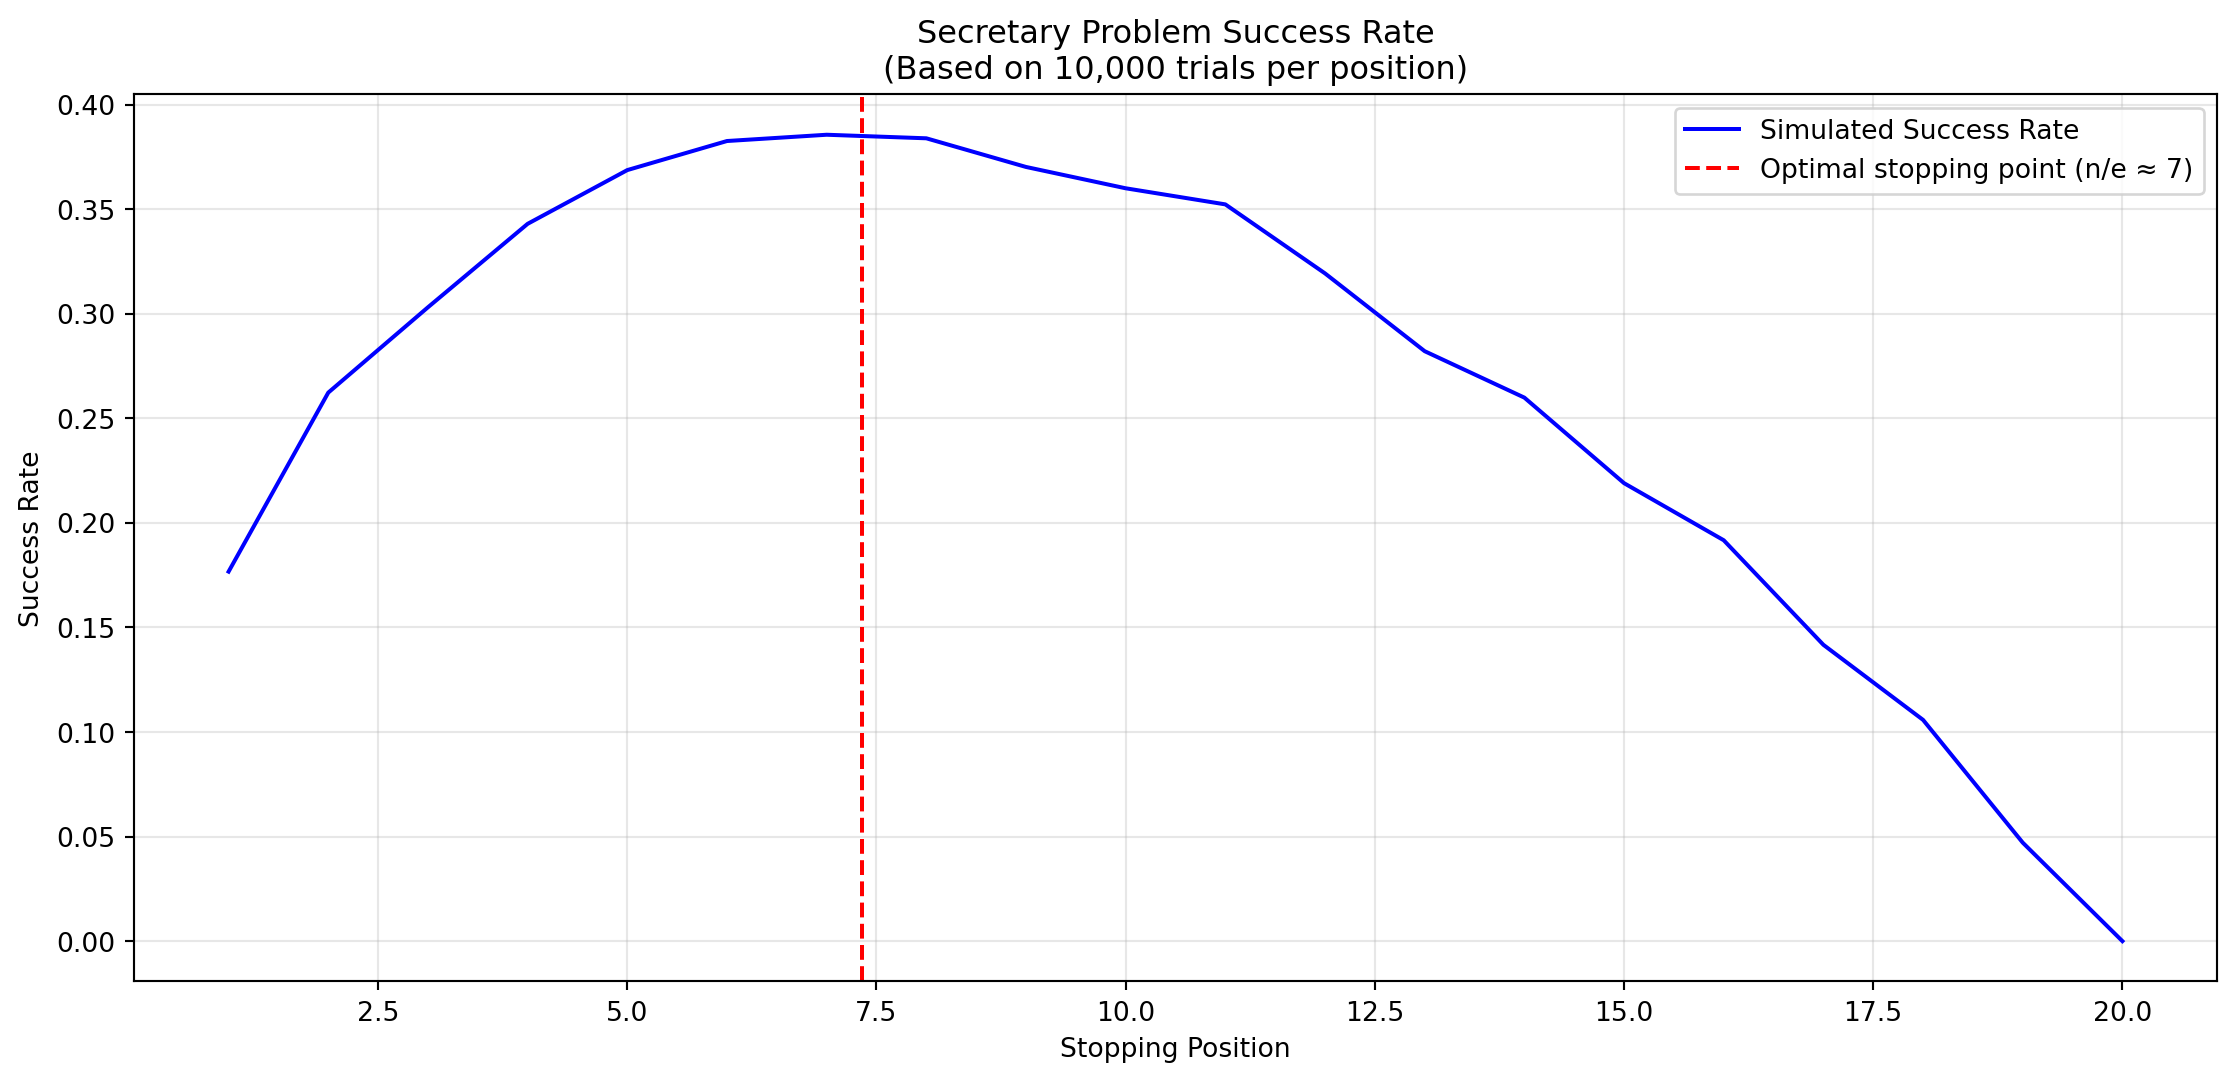
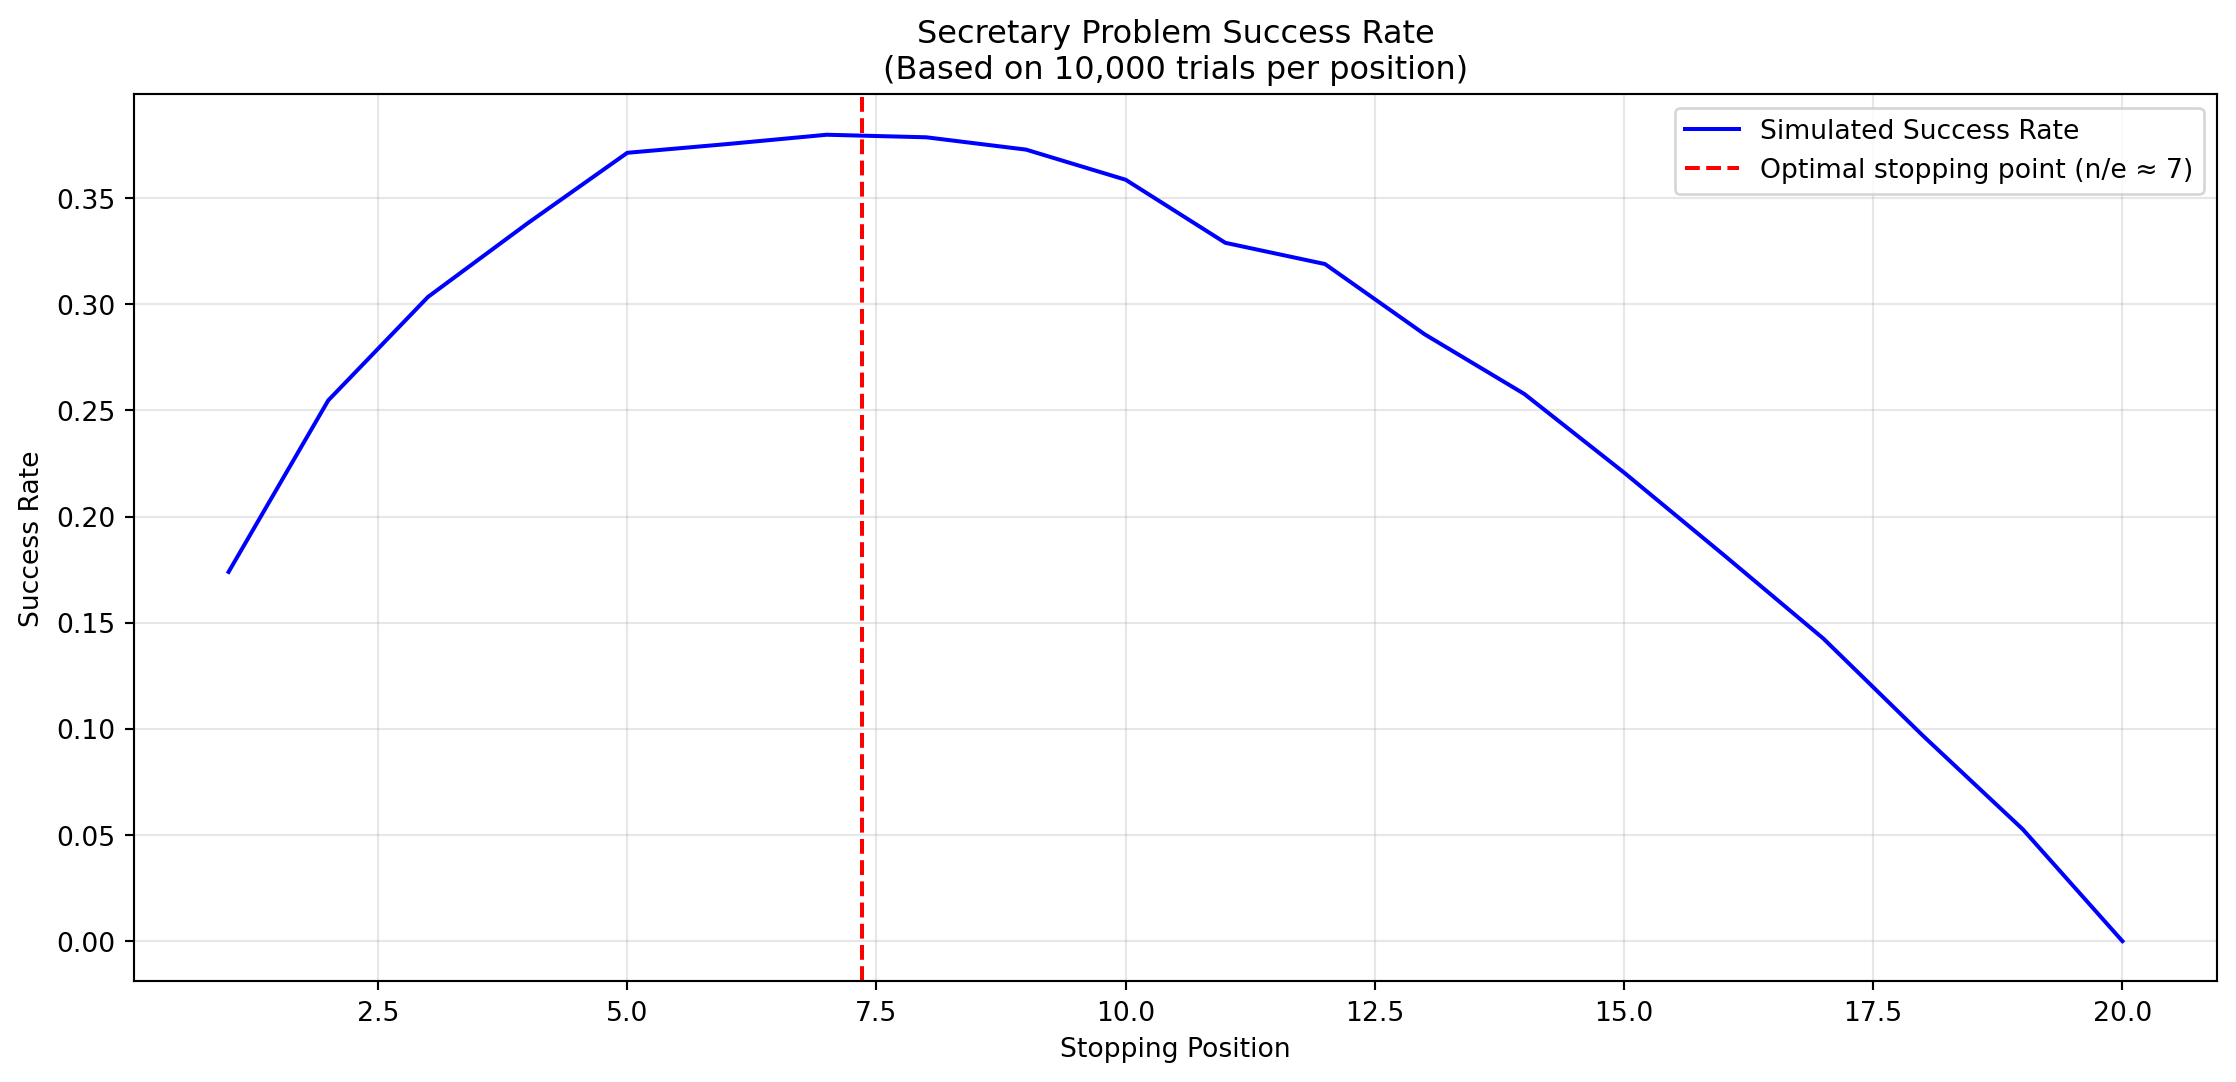
Titelblock, Navigation und Titel: Lecturer-Meta zentral, keine Repo-Actions, Doppelpunkt in Titeln
- GitHub-Issue-Verweise aus der FAQ entfernt, Kontakt nur per E-Mail
- repo-actions aus _quarto.yml entfernt
- Lecturer "Dr. Nils Roemer, External Lecturer" und Affiliation "Planningio GmbH" zentral in lectures/_metadata.yml und tutorials/_metadata.yml, author/institute aus den einzelnen Lectures entfernt, Folien-Footer fest "Dr. Nils Roemer"
- Link-Unterstreichung: Breadcrumbs, Sidebar, TOC, Titelblock, Format-Links und Footer ausgenommen
- Seitentitel in lectures/ und tutorials/ sowie Sidebar-Einträge: ": " statt " - ", Dateinamen und URLs unverändert
- CLAUDE.md und UEBERGABE.md angepasst

diff --git a/styles.scss b/styles.scss
@@ -231,16 +231,17 @@ h3, .h3 { letter-spacing: -.006em; color: var(--ink); }
    Content links (global, no page-specific overrides): text colour
    with a subtle grey underline; primary colour and underline on
    hover. Applies to the whole course site (website and tutorials);
-   slides have their own rule below. Scoped to the document body so
-   sidebar, TOC, footer and icon links keep their own styling.
+   slides have their own rule below. Scoped to the document body and
+   excluding navigation (breadcrumbs, sidebar, TOC, format links, page
+   footer), which keeps its own styling.
    ================================================================ */
-#quarto-document-content :is(p, li, td, th, dd, dt, figcaption, blockquote) a:not(.btn):not(.anchorjs-link) {
+#quarto-document-content :is(p, li, td, th, dd, dt, figcaption, blockquote) a:not(.btn):not(.anchorjs-link):not(nav a):not(#title-block-header a):not(.sidebar a):not(.nav-footer a):not(.quarto-alternate-formats a):not(.toc-actions a) {
   color: var(--ink);
   text-decoration: none;
   border-bottom: 1px solid var(--border-strong);
   transition: color .2s ease, border-color .2s ease;
 }
-#quarto-document-content :is(p, li, td, th, dd, dt, figcaption, blockquote) a:not(.btn):not(.anchorjs-link):hover {
+#quarto-document-content :is(p, li, td, th, dd, dt, figcaption, blockquote) a:not(.btn):not(.anchorjs-link):not(nav a):not(#title-block-header a):not(.sidebar a):not(.nav-footer a):not(.quarto-alternate-formats a):not(.toc-actions a):hover {
   color: var(--primary);
   border-bottom-color: var(--primary);
 }

diff --git a/CLAUDE.md b/CLAUDE.md
@@ -6,7 +6,7 @@ Anleitung für Claude Code (claude.ai/code) beim Arbeiten in diesem Repository.
 
 Kurs-Website für „Programming: Everyday Decision-Making Algorithms" an der Kühne Logistics University (KLU), Hamburg, unter `https://courses.nilsroemer.com`. Der Kurs vermittelt algorithmisches Denken nach dem Buch „Algorithms to Live By" (Optimal Stopping, Explore/Exploit, Caching, Scheduling, Randomness, Computational Kindness) und führt Business-Studierende nebenbei in Python ein. Die Website enthält Vorlesungsfolien, interaktive Tutorials und Kursinformationen (Syllabus, FAQ, Installation, Literatur, Cheatsheet). Die Seiteninhalte sind auf Englisch, die Kommunikation im Repo (Commits, diese Datei) auf Deutsch.
 
-Lehrender und Betreiber ist Dr. Nils Roemer. Dr. Tobias Vlćek hat die Materialien mitentwickelt und wird **nur in den Credits** genannt: auf der Startseite (Author-Zeile und Hinweis im Einleitungstext) und im CC-BY-NC-SA-Footer („Nils Roemer and Tobias Vlćek"). In Lectures, Tutorials und sonstigen Seiten steht ausschließlich Nils Roemer als Lecturer.
+Lehrender und Betreiber ist Dr. Nils Roemer. Dr. Tobias Vlćek hat die Materialien mitentwickelt und wird **nur in den Credits** genannt: auf der Startseite (Author-Zeile und Hinweis im Einleitungstext) und im CC-BY-NC-SA-Footer („Nils Roemer and Tobias Vlćek"). In Lectures und Tutorials steht ausschließlich Nils Roemer als Lecturer, einheitlich über `lectures/_metadata.yml` und `tutorials/_metadata.yml`: `author: "Dr. Nils Roemer, External Lecturer"`, `institute: "Planningio GmbH"` (erscheint als „Lecturer" und „Affiliation" im Titelblock und auf der Titelfolie). Keine `author:`- oder `institute:`-Angaben in einzelnen Dateien. Der Folien-Footer nennt nur „Dr. Nils Roemer".
 
 Der Name wird immer **„Roemer"** geschrieben, nie „Römer", auch in Alt-Texten, Metadaten und Dateinamen.
 
@@ -75,7 +75,7 @@ _freeze/, _site/, .quarto/   # Build-Cache und Output, gitignored, nie manuell b
 
 Sonstige Dateien im Root (`klu_syllabus.md`, `manual.md`, `main.py`, `messages/`, `projects/`) sind Arbeitsmaterial und werden nicht gerendert (`project.render` in `_quarto.yml` listet die Quellen explizit).
 
-**Navigation:** Sidebar (Welcome, Syllabus, Kapitel 01 bis 06 mit Lecture und Tutorials, FAQs, Installation, Literature, Cheatsheet) und Footer werden zentral in `_quarto.yml` konfiguriert. Neue Seiten dort eintragen. Die Anzeige-Titel der Tutorials folgen dem Schema `01-01 - Variables` (Kapitel-Nummer, Tutorial-Nummer, Thema); Dateinamen und URLs bleiben davon unberührt.
+**Navigation:** Sidebar (Welcome, Syllabus, Kapitel 01 bis 06 mit Lecture und Tutorials, FAQs, Installation, Literature, Cheatsheet) und Footer werden zentral in `_quarto.yml` konfiguriert. Neue Seiten dort eintragen. Die Anzeige-Titel der Tutorials folgen dem Schema `01-01: Variables` (Kapitel-Nummer, Tutorial-Nummer, Thema); Dateinamen und URLs bleiben davon unberührt. Keine Repo-Actions (Edit this page, View source, Report an issue) in `_quarto.yml`.
 
 **Theme:** Cosmo + `styles.scss` + Brand, in genau dieser Reihenfolge (`brand` muss nach `styles.scss` stehen, sonst „Undefined variable $brand-*", weil die Defaults-Ebenen rückwärts verarbeitet werden). Die RevealJS-Folien binden dieselbe `styles.scss` über `lectures/_metadata.yml` ein. Das Design ist eine reduzierte Ableitung des Planningio-Brands wie auf nilsroemer.com (Navy/Blau, Poppins für Überschriften, Inter für Fließtext, Space Mono für Code und Meta-Angaben). Kurs-spezifische Zusatzakzente (Amber, Rot, Grün) nur für Folien-Hervorhebungen und Callouts.
 
@@ -83,13 +83,14 @@ Sonstige Dateien im Root (`klu_syllabus.md`, `manual.md`, `main.py`, `messages/`
 
 ## Konventionen
 
-- **Titel:** Inhaltsseiten mit Quarto-Title-Block nutzen `title:` und `subtitle:`. Die Rechtstexte (`general/imprint.qmd`, `general/privacy.qmd`) nutzen `pagetitle:` und setzen die sichtbare Überschrift als `# …` im Body.
+- **Titel:** Inhaltsseiten mit Quarto-Title-Block nutzen `title:` und `subtitle:`. Die Rechtstexte (`general/imprint.qmd`, `general/privacy.qmd`) nutzen `pagetitle:` und setzen die sichtbare Überschrift als `# …` im Body. Nummer und Thema werden in Seitentiteln und Sidebar mit Doppelpunkt getrennt (`Lecture I: Optimal Stopping`, `Tutorial I.I: Variables and Types`, `01-01: Variables`), nicht mit ` - `.
+- **Kontakt nur per E-Mail** (nils.roemer@planningio.com). Keine Verweise auf GitHub-Issues, keine Repo-Actions. Der GitHub-Link im Footer bleibt (Quelle der Lösungen, siehe `include/tutorial_end.qmd`).
 - **Keine Requests an Dritte:** Fonts self-hosted (`fonts/`, `@font-face` in `styles.scss`, `$web-font-path: false`), MathJax self-hosted (`assets/`), alle Bilder und GIFs lokal (`images/`, `animations/`), der von Pandoc injizierte cdnjs-Polyfill wird per Post-Render-Skript entfernt. Keine Analytics, keine Cookies, keine CDN-Skripte. Einzige Ausnahme: ein YouTube-Embed im privacy-enhanced Mode (youtube-nocookie.com) in `lectures/tut_05_01_llm.qmd`, der in der Datenschutzerklärung erfasst ist. Die Datenschutzerklärung sichert genau diesen Stand zu, jede neue Abhängigkeit muss dagegen geprüft werden.
 - **Rechtstexte (`general/imprint.qmd`, `general/privacy.qmd`):**
   - Keine sichtbaren Datumsangaben („Stand: …", „Last updated …") einfügen.
   - Änderungen an Rechtstexten vor dem Einarbeiten als Vorschlag zeigen und von Nils freigeben lassen. Das gilt auch für scheinbar triviale Korrekturen.
 - **Keine Gedankenstriche als Satzzeichen im sichtbaren Text.** Sätze stattdessen umformulieren (Komma, Punkt, Doppelpunkt, Klammer). Bereichsangaben wie `2018–2022` bleiben. Code, Code-Kommentare und Rechtstexte sind davon ausgenommen und werden nicht angefasst.
-- **Links im Inhalt:** Textfarbe mit dezenter grauer Unterstreichung (`--border-strong`), bei Hover Primärfarbe mit Unterstreichung in Primärfarbe. Gilt auf der gesamten Kursseite (Website und Tutorials), global in `styles.scss` definiert, keine seitenspezifischen Abweichungen. Bewusste Abweichung von nilsroemer.com: Die graue Linie bleibt, damit Links in Aufgaben- und Fließtexten auffindbar sind. Folien ausgenommen: dort Textfarbe ohne Linie, Hover Primärfarbe mit Linie.
+- **Links im Inhalt:** Textfarbe mit dezenter grauer Unterstreichung (`--border-strong`), bei Hover Primärfarbe mit Unterstreichung in Primärfarbe. Gilt für den Inhaltsbereich der gesamten Kursseite (Website und Tutorials), global in `styles.scss` definiert, keine seitenspezifischen Abweichungen. Navigationselemente (Breadcrumbs, Sidebar, Inhaltsverzeichnis, Format-Links, Seiten-Footer, Titelblock) sind ausgenommen und behalten ihren eigenen Stil. Bewusste Abweichung von nilsroemer.com: Die graue Linie bleibt, damit Links in Aufgaben- und Fließtexten auffindbar sind. Folien ausgenommen: dort Textfarbe ohne Linie, Hover Primärfarbe mit Linie.
 - **Seitenkopf:** Auf allen Website-Seiten gleich, global in `styles.scss` definiert (Block „Page header", Spacing über die `--space-*`-Tokens). Anders als auf nilsroemer.com bleibt Quartos Title-Block der Seitenkopf (Titel, Untertitel, Lecturer/Affiliation, Format-Links); die Rechtstexte nutzen `pagetitle:` und ein `#` im Body. Abstände: oberhalb des Kopfs `padding-top` auf `main` (`--space-6`), Kopf → Inhalt `margin-bottom` des Title-Blocks bzw. der Body-h1 (`--space-5`), vor jedem Abschnitt `margin-top` der h2 (`--space-7`). Keine Linie unter h1 oder h2, keine seitenspezifischen Abweichungen. Folien sind davon ausgenommen.
 - **Abschnittstitel und Labels** ruhig halten wie auf nilsroemer.com: Meta-Angaben (Untertitel, Lecturer, Breadcrumbs, „On this page", „Other Formats") als kleine, gedämpfte Labels in Space Mono bzw. Poppins-Uppercase.
 - **Eintrags-Layout (Startseite, Syllabus):** Entspricht `.entries` auf nilsroemer.com, wird hier aber über `body-classes: entries` im YAML-Header aktiviert, nicht über ein `::: {.entries}`-Div. Grund: Pandoc erzeugt kein Inhaltsverzeichnis, wenn mehrere `##`-Abschnitte in einem Div liegen. Abschnitte als `##` (kleine Uppercase-Labels), Einträge als `###`, Meta-Zeile als `[…]{.entry-meta}` (Space Mono, gedämpft).

diff --git a/UEBERGABE.md b/UEBERGABE.md
@@ -1,6 +1,6 @@
 # Übergabe: Branch `design-angleich`
 
-Stand: 10. Oktober 2026 (Nachtrag unten). Branch ist gepusht, nicht in `main` gemergt, nicht veröffentlicht. Worktree: `.claude/worktrees/design-angleich`.
+Stand: 10. Oktober 2026 (Nachträge unten). Branch ist gepusht, nicht in `main` gemergt, nicht veröffentlicht. Worktree: `.claude/worktrees/design-angleich`.
 
 ## Was geändert wurde
 
@@ -45,6 +45,19 @@ Stand: 10. Oktober 2026 (Nachtrag unten). Branch ist gepusht, nicht in `main` ge
 4. **`.claude/worktrees/` in `.gitignore` aufgenommen.**
 
 CLAUDE.md entsprechend angepasst (Linkkonvention, Build-Voraussetzungen, offene Punkte).
+
+## Nachtrag 2, 10. Oktober 2026: weitere Anpassungen
+
+1. **GitHub-Issue-Verweise entfernt.** Nur die FAQ hatte welche (zwei Sätze „or by creating an issue on GitHub"), jetzt Kontakt nur per E-Mail. Nicht angefasst, weil kein Issue-Verweis: der GitHub-Link im Footer und der Hinweis in `include/tutorial_end.qmd`, dass die Lösungen im GitHub-Repository liegen (Button unten links). Die Erwähnungen von GitHub Copilot in `tut_05_01_llm.qmd` sind Inhalt.
+2. **Repo-Actions entfernt** (`repo-actions` in `_quarto.yml`). `repo-url` steht noch drin, ist ohne Actions aber wirkungslos.
+3. **Lecturer und Affiliation** zentral in `lectures/_metadata.yml` und `tutorials/_metadata.yml`: `author: "Dr. Nils Roemer, External Lecturer"`, `institute: "Planningio GmbH"`. Die `author:`- und `institute:`-Zeilen in den einzelnen Lectures (darunter „Kühne Logistics University Hamburg - Fall 2024" in Lecture VI) sind entfernt. Entscheidungen dabei:
+   - Startseite behält die Author-Zeile „Dr. Nils Roemer and Dr. Tobias Vlćek" (Credits-Regel). Die allgemeinen Seiten (Syllabus, FAQ, Installation, Literature, Cheatsheet) hatten bisher keinen Lecturer-Block und haben weiterhin keinen. Wenn du ihn dort auch willst: `author`/`institute` in den Dateien oder in `_quarto.yml` ergänzen.
+   - Der Folien-Footer stand auf `{{< meta author >}}` und hätte „Dr. Nils Roemer, External Lecturer" auf jeder Folie gezeigt. Jetzt fest „Dr. Nils Roemer".
+   - Quarto rendert den Autor-String mit Komma als eine Person (geprüft im Titelblock und auf der Titelfolie).
+4. **Navigationselemente ohne Link-Unterstreichung.** Die Linkregel in `styles.scss` schließt jetzt `nav` (Breadcrumbs, Sidebar, TOC), Titelblock, Format-Links, TOC-Actions und Seiten-Footer aus.
+5. **Doppelpunkt statt „ - " in Titeln:** alle `title:` in `lectures/` und `tutorials/` (z. B. „Lecture I: Optimal Stopping", „Tutorial I.I: Variables and Types", „Introduction: Programming") und die 15 Tutorial-Einträge in der Sidebar („01-01: Variables"). Dateinamen und URLs unverändert. Nicht angefasst: Abschnittsüberschriften in Tutorials (`# Section 1 - Using Standard Libraries`, rund 30 Stück) und die 57 Exercise-Überschriften (`## Exercise 1.1 - …`, dokumentierte Konvention). Sag Bescheid, wenn die auch umgestellt werden sollen.
+
+CLAUDE.md entsprechend angepasst (Lecturer-Meta, Titel-Trennzeichen, Kontakt, Links).
 
 ## Offene Fragen an dich
 
